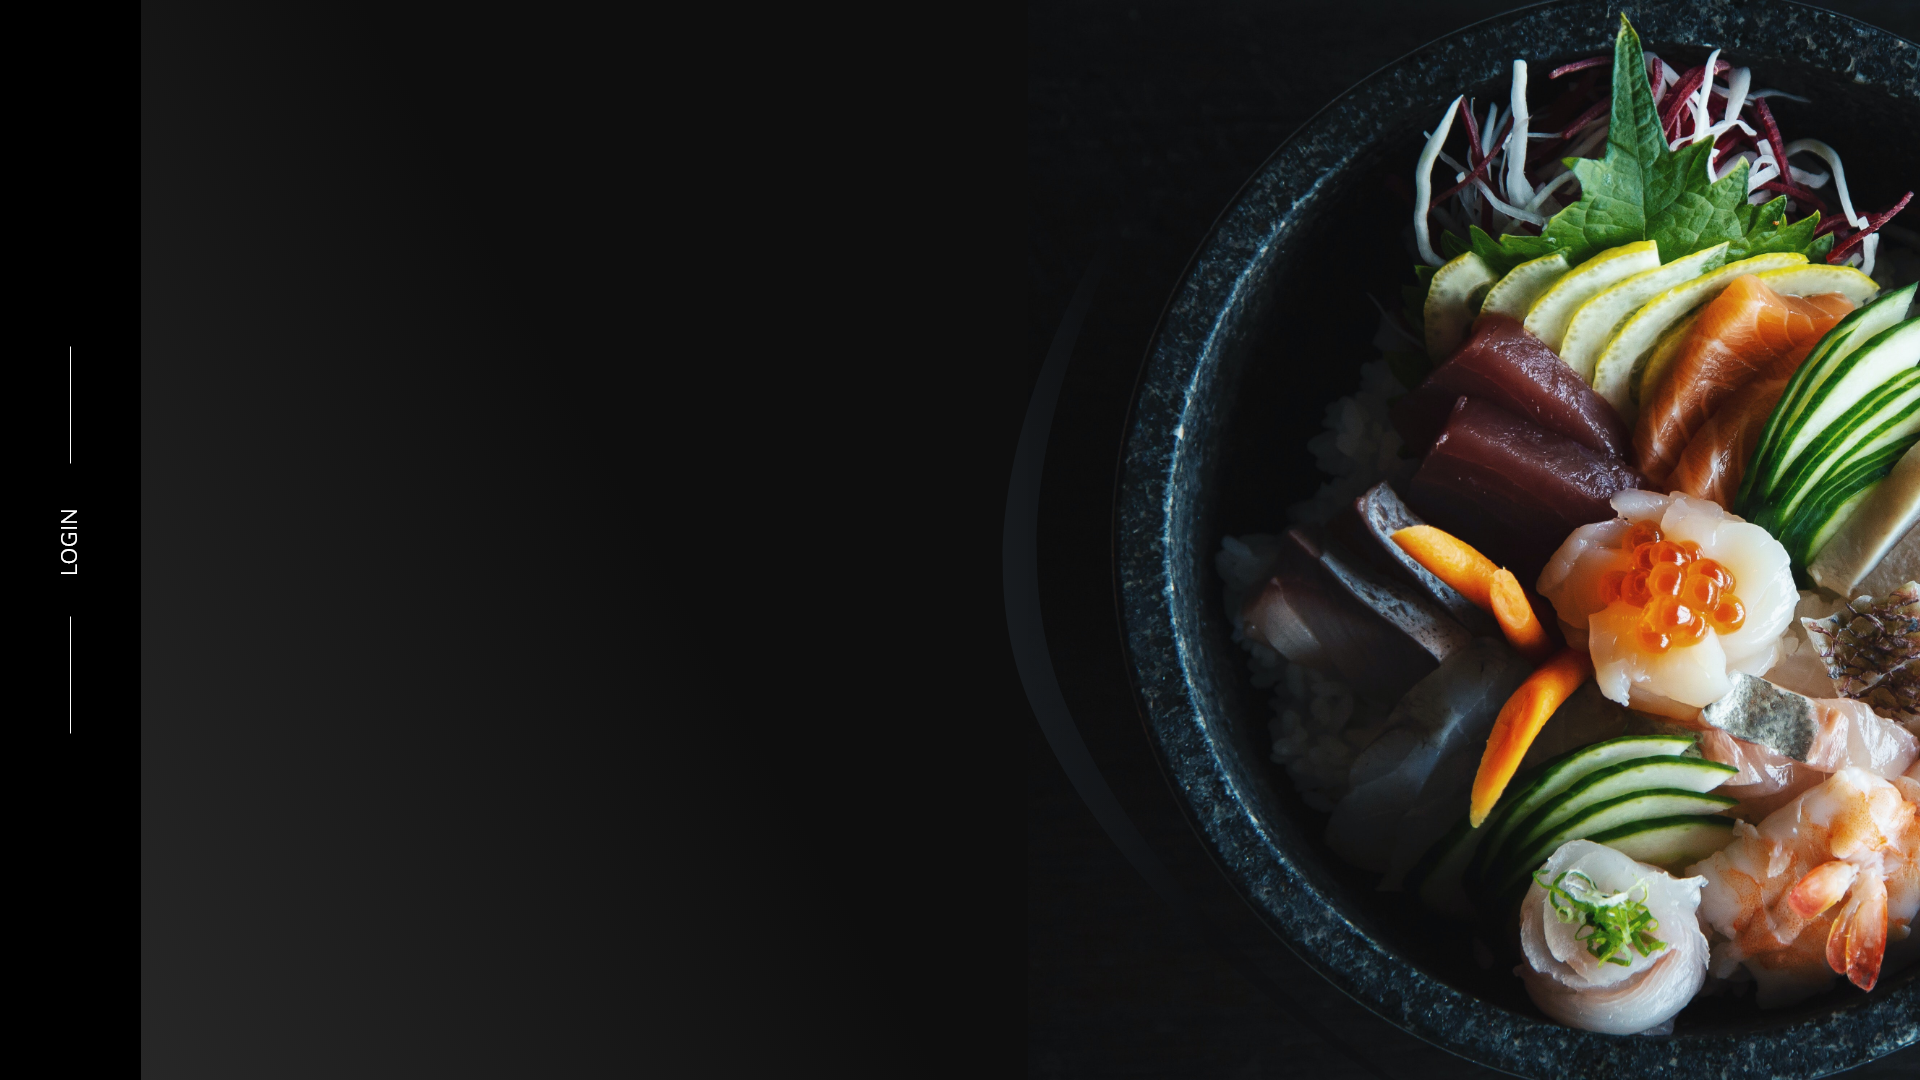
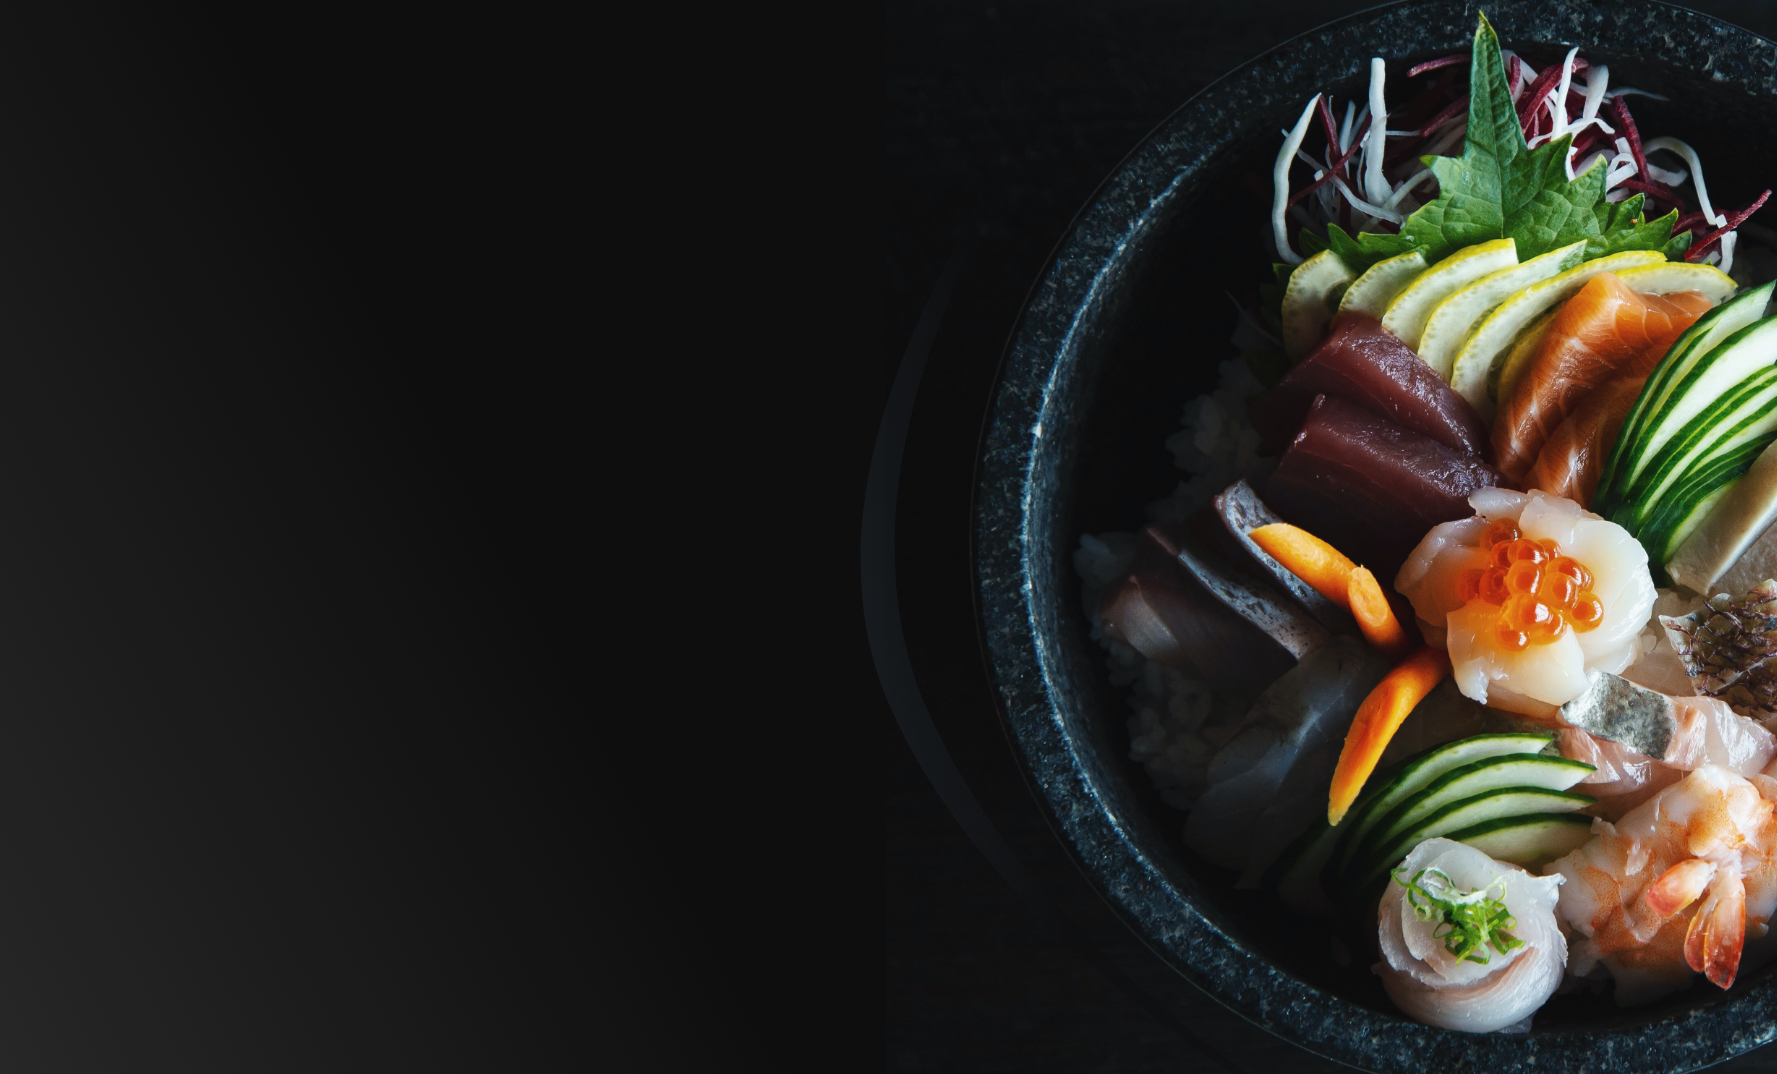
login panel fix

Changed region(s): [[0.5571, 0.0, 1.0, 1.0], [0.0, 0.1844, 0.0929, 1.0]]

diff --git a/index.html b/index.html
@@ -8,6 +8,24 @@
 </head>
 <body>
     <div class="root">
+        <div class="a-0">
+            <div class="a-0-1">
+                <div class="line">
+
+                </div>
+                <div class="space"></div>
+                <div class="log">
+                    <h1>
+                        LOGIN
+                    </h1>
+                </div>
+                <div class="space"></div>
+                <div class="line">
+
+                </div>
+            </div>
+            
+        </div>
         <div class="a">
             <div class="img">
                 <svg xmlns="http://www.w3.org/2000/svg" xmlns:xlink="http://www.w3.org/1999/xlink" width="274" height="96" viewBox="0 0 274 96">
@@ -20,29 +38,33 @@
                 </svg>
             </div>
                 
-                <div class="a1">
-                <h1>Welcome Back!</h1>
-                <p class="">Lorem ipsum dolor sit amet consectetur, adipisicing elit. Sed excepturi, commodi expedita sunt unde ipsam.</p>
-                <p class="">Email</p>
-                <input placeholder="name@mail.com" type="text" class="email">
-                <p class="">Password</p>
-                <input placeholder="*******" type="text" class="password">
-                <div class="a1-1">
-                    <div class="a1-1-1">
-                        <input type="checkbox" name="" id="">
-                        <p class="">Remember Me</p>
+            <div class="a1">
+                <div class="a11">
+                    <h1>Welcome Back!</h1>
+                    <p class="">Lorem ipsum dolor sit amet consectetur, adipisicing elit. Sed excepturi, commodi expedita sunt unde ipsam.</p>
+                    <p class="">Email</p>
+                    <input placeholder="name@mail.com" type="text" class="email">
+                    <p class="">Password</p>
+                    <input placeholder="*******" type="text" class="password">
+                    <div class="a1-1">
+                        <div class="a1-1-1">
+                            <input type="checkbox" name="" id="">
+                            <p class="">Remember Me</p>
+                        </div>
+                        <div class="a1-1-2">
+                            <a href="" class="">Forgot Password?</a>
+                        </div>
                     </div>
-                    <div class="a1-1-2">
-                        <a href="" class="">Forgot Password?</a>
+                    <div class="a1-2">
+                        <button>Login</button>
+                    </div>
+                    <div class="a1-3">
+                        <p>Not yet Registered?</p>
+                        <a href="" class="">Sign up here</a>
                     </div>
                 </div>
-                <div class="a1-2">
-                    <button>Login</button>
-                </div>
-                <div class="a1-3">
-                    <p>Not yet Registered?</p>
-                    <a href="" class="">Sign up here</a>
-                </div>
+                <div class="a12"></div>
+                
             </div>
         </div>
         <div class="b">

diff --git a/index.css b/index.css
@@ -6,23 +6,53 @@ body{
     padding: 0;
     font-family: 'Nunito Sans', sans-serif;
     background-image: url('./bg.png');
-    background-repeat: no-repeat;
     background-size: 100% 100%;
+    height: 100%;
+    width: 100%;
 
 }
 
 .root{
     margin: 0;
-    padding: 0 0 0 6rem;
     display: grid;
-    grid-template-columns: 1fr 1fr;
+    grid-template-columns: 1fr 20fr ;
+    height: 100%;
+    width: 100%;
+    object-fit: contain;
 }
 
-.a{
+.a-0{
+    background-color: black;
+    color: white;
+    display: flex;
+    justify-content: center;
+    align-items: center;
+    width: 95px;
+    
+}
+
+.a-0-1{
+    transform: rotate(270deg);
+    display: flex;
+
+
+}
+
+.space{
+    padding: 0 1rem ;
+}
+
+.line{
+    border: 1px solid white;
+    transform: rotate(270deg);
+    margin: 1rem;
+    height: 50px;
 }
 
 .a1{
     padding: 2rem 4rem;
+    display: grid;
+    grid-template-columns: 1fr 1fr;
 
 }
 
@@ -102,6 +132,11 @@ body{
     .b{
         display: none;
     }
+
+    .a-0{
+        display: none;
+    }
+
     .a svg{
         margin: auto;
     }
